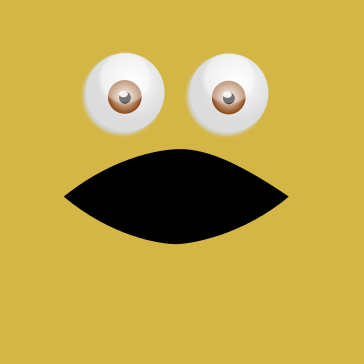
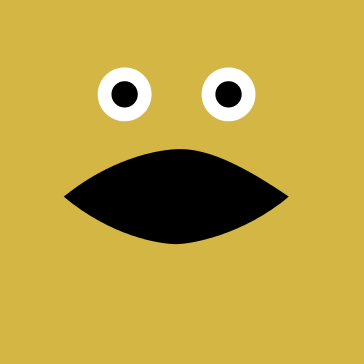
Ghost Texture

Changed region(s): [[0.2115, 0.1209, 0.4533, 0.3929], [0.5137, 0.1209, 0.7555, 0.3929]]

diff --git a/PacMan/ghost3d.cpp b/PacMan/ghost3d.cpp
@@ -26,20 +26,32 @@ Ghost3D::Ghost3D()
     analogY=0;
     isScared=false;
     scaredTime=0;
+    tex = SOIL_load_OGL_texture("../ghost.png",SOIL_LOAD_AUTO,SOIL_CREATE_NEW_ID,SOIL_FLAG_INVERT_Y);
+    if(!tex) exit(1);
+    quadratic = gluNewQuadric();
+    if(!quadratic) exit(2);
+    gluQuadricNormals(quadratic, GLU_SMOOTH);
+    gluQuadricTexture(quadratic, GL_TRUE);
+    glTexParameteri(GL_TEXTURE_2D,GL_TEXTURE_MAG_FILTER,GL_LINEAR);
+    glTexParameteri(GL_TEXTURE_2D,GL_TEXTURE_MIN_FILTER,GL_LINEAR);
 }
 
 void Ghost3D::display(IGame &game)
 {
     (void)game;
     if(scared())
-        glColor3f(0.8,0.8,0.8);
+        glColor3f(0.2,0.2,0.2);
     else
-        glColor3f(0.0,0.0,0.8);
+        glColor3f(1.0,1.0,1.0);
+
     glPushMatrix();
 
-    glTranslated(ghostX,ghostY,16.0);
-    glScaled(16.0,16.0,16.0);
-    glutSolidTetrahedron();
+    glTranslated(ghostX,ghostY,12.0);
+
+    glBindTexture(GL_TEXTURE_2D, tex);
+    glScaled(12.0,12.0,20.0);
+    gluSphere(quadratic, 1.0, 8, 8);
 
     glPopMatrix();
+
 }

diff --git a/PacMan/ghost.cpp b/PacMan/ghost.cpp
@@ -34,7 +34,7 @@ void Ghost::display(IGame &game)
     if(scared())
         glColor3f(0.8,0.8,0.8);
     else
-        glColor3f(0.0,0.0,0.8);
+        glColor3f(0.0,0.0,1.0);
     glRecti(ghostX-12,ghostY-12,ghostX+12,ghostY+12);
 }
 

diff --git a/PacMan/ghost3d.h b/PacMan/ghost3d.h
@@ -23,6 +23,9 @@
 
 class Ghost3D: public Ghost
 {
+private:
+    GLuint tex;
+    GLUquadric* quadratic;
 public:
     Ghost3D();
 

diff --git a/PacMan/ghost.h b/PacMan/ghost.h
@@ -19,6 +19,8 @@
 #ifndef GHOST_H
 #define GHOST_H
 
+#include "soil/SOIL.h"
+
 #include "igame.h"
 
 class Ghost: public IGhost
